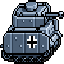
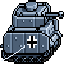
Chlorine rules!

diff --git a/sdl2-chlorine/src/game.cpp b/sdl2-chlorine/src/game.cpp
@@ -32,10 +32,10 @@ constexpr int WINDOW_HEIGHT = 960;
 
 constexpr int TILE_SIZE = 16;
 
-constexpr int FPS = 60;
+constexpr int FPS = 300;
 
 constexpr int P_SPEED = 32;
-constexpr int B_SPEED = 5;
+constexpr int B_SPEED = 65;
 
 template <typename T>
 int sign(T val) {
@@ -57,7 +57,7 @@ int main(int /*argc*/, char* /*argv*/ []) {
         std::cerr << "Texture not found!" << std::endl;
 
     texture* player_tex = new texture();
-    if (!player_tex->load_texture("hero.png"))
+    if (!player_tex->load_texture("tank.png"))
         std::cerr << "Texture not found!" << std::endl;
 
     texture* floor_tex = new texture();
@@ -100,16 +100,17 @@ int main(int /*argc*/, char* /*argv*/ []) {
         create_player(data, 0.0f, 7.0f, 0.0f, P_SPEED, TILE_SIZE),
         destroy_player);
     player->collision_box.y = TILE_SIZE / 2;    // /2;
+    player->frames_in_texture = 4;
 
     for (int y = 0; y < y_size; y++) {
         for (int x = 0; x < x_size; x++) {
             std::cout << *(tile_set.begin() + y * x_size + x) << " ";
-            if (*(tile_set.begin() + y * x_size + x) != 0)
+            if (*(tile_set.begin() + y * x_size + x) != 0) {
                 bricks.insert(
                     bricks.end(),
                     create_wall(data, x * TILE_SIZE, y * TILE_SIZE + TILE_SIZE,
                                 0.0f, TILE_SIZE));
-            else if (!placed && *(tile_set.begin() + y * x_size + x) == 0) {
+            } else if (!placed && *(tile_set.begin() + y * x_size + x) == 0) {
                 player->position.x = x * TILE_SIZE;
                 player->position.y = y * TILE_SIZE + TILE_SIZE;
                 placed = true;
@@ -124,6 +125,8 @@ int main(int /*argc*/, char* /*argv*/ []) {
             floor.insert(floor.end(), create_wall(data, x * TILE_SIZE,
                                                   y * TILE_SIZE + TILE_SIZE,
                                                   0.0f, TILE_SIZE));
+            (*(floor.end() - 1))->frames_in_texture = 4;
+            (*(floor.end() - 1))->selected_frame = rand() % 4;
         }
     }
 
@@ -136,13 +139,11 @@ int main(int /*argc*/, char* /*argv*/ []) {
 
     bool one_time_change = true;
 
-    //    std::cout << tile_set[tile_set.size() - 1] << " "
-    //              << tile_set[tile_set.size() - 2] << std::endl;
-
     float alpha = 0;
 
     float delay = 0;
 
+    point shooting_point = point(14, -9);
     float prev_frame = eng->GL_time();
     bool quit = false;
     while (!quit) {
@@ -181,9 +182,10 @@ int main(int /*argc*/, char* /*argv*/ []) {
                     if (delay <= 0) {
                         bullets.insert(
                             bullets.end(),
-                            new bullet(data, player->position.x + TILE_SIZE / 2,
-                                       player->position.y - TILE_SIZE / 2, 0.0f,
-                                       8, 0, 2));
+                            new bullet(data,
+                                       player->position.x + shooting_point.x,
+                                       player->position.y + shooting_point.y,
+                                       0.0f, 8, 0, 2));
                         (*(bullets.end() - 1))->alpha = alpha;
                         (*(bullets.end() - 1))->speed = B_SPEED;
                         (*(bullets.end() - 1))->rotation_point =
@@ -219,6 +221,20 @@ int main(int /*argc*/, char* /*argv*/ []) {
             alpha = std::atan((float)dy / dx) + 2 * M_PI;
         else
             alpha = M_PI + std::atan((float)dy / dx);
+
+        if (alpha > (3 * M_PI_2 + M_PI_4) || alpha <= M_PI_4) {
+            shooting_point = point(15, -8);
+            player->selected_frame = 0;
+        } else if (alpha > M_PI_4 && alpha <= M_PI_2 + M_PI_4) {
+            shooting_point = point(TILE_SIZE / 2 + 4, -TILE_SIZE);
+            player->selected_frame = 3;
+        } else if (alpha > M_PI_2 + M_PI_4 && alpha < M_PI + M_PI_4) {
+            shooting_point = point(1, -16);
+            player->selected_frame = 1;
+        } else {
+            shooting_point = point(TILE_SIZE / 2 - 4, -4);
+            player->selected_frame = 2;
+        }
 
         /*smooth moving*/
         bool moved = false;
@@ -283,6 +299,12 @@ int main(int /*argc*/, char* /*argv*/ []) {
             }
         }
 
+        if (player->position.x < 0 || player->position.x > WINDOW_WIDTH / 4)
+            player->position.x -= delta_x;
+        if (player->position.y - TILE_SIZE < 0 ||
+            player->position.y > WINDOW_HEIGHT / 4)
+            player->position.y -= delta_y;
+
         /// bullets collision
         int i = 0;
         for (instance* b : bullets) {
@@ -333,16 +355,16 @@ int main(int /*argc*/, char* /*argv*/ []) {
         if (!bullets.empty())
             eng->draw(bullets[0], bullet_tex);
 
-        //        if (!bullets.empty())
-        //            eng->draw(bullets[0], bullet_tex);
-
         eng->add_object(player.get());
         eng->draw(player.get(), player_tex);
 
         eng->GL_swap_buffers();
 
         /*sleep*/
-        std::this_thread::sleep_for(std::chrono::milliseconds(1000 / FPS));
+        float time = (eng->GL_time() - prev_frame) * 1000;
+        if (time < 1000 / FPS)
+            std::this_thread::sleep_for(
+                std::chrono::milliseconds(1000 / FPS - (int)time));
     }
 
     eng->CHL_exit();
